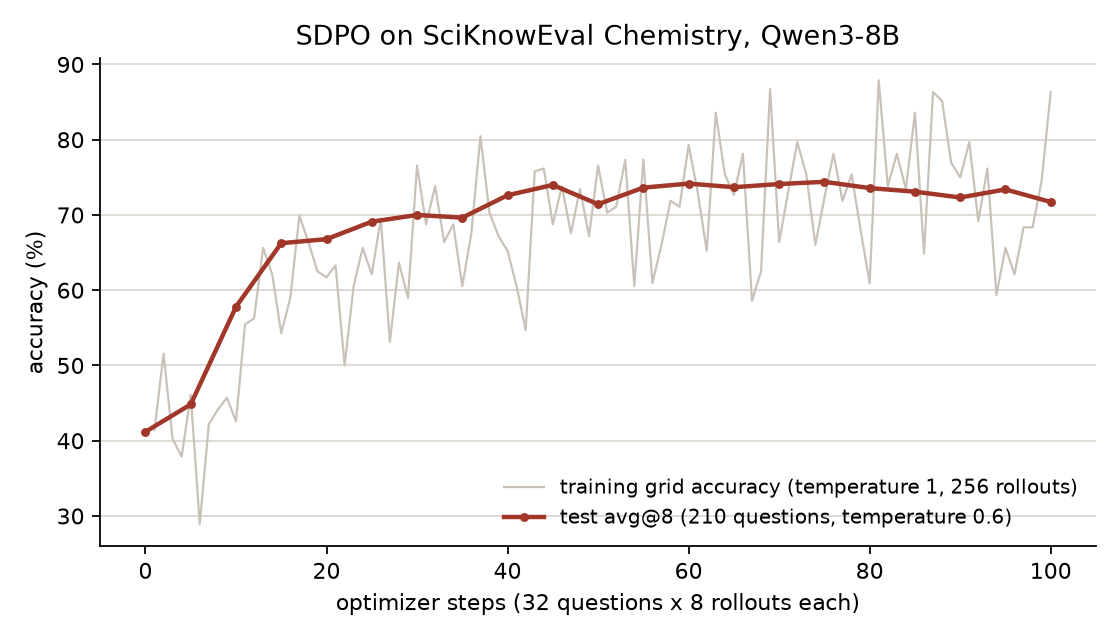
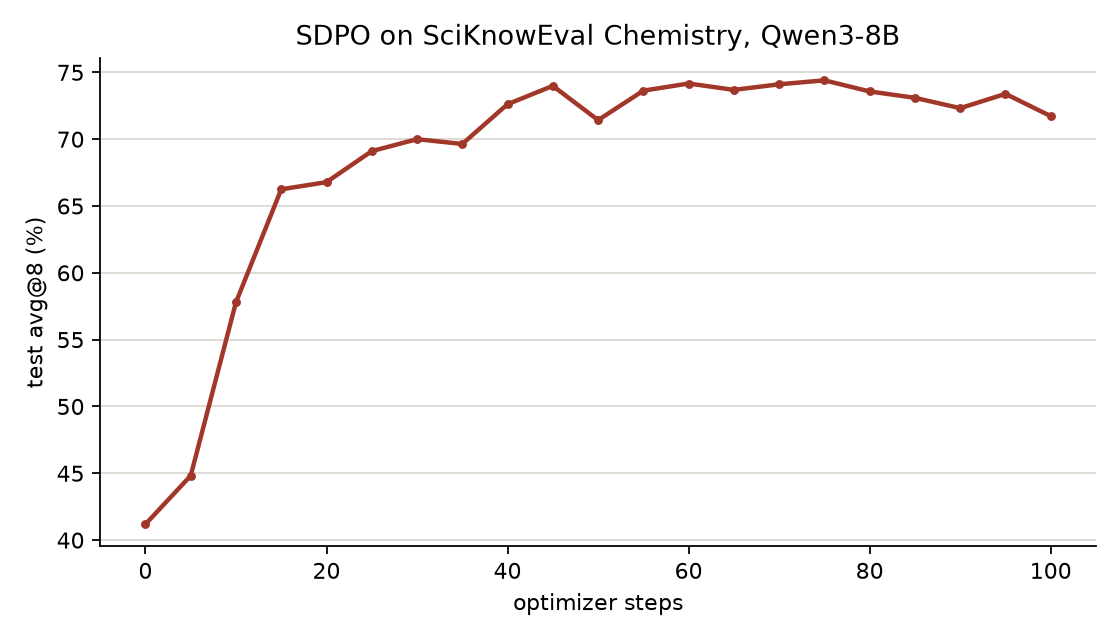
docs(sdpo): the curve shows the test score alone

diff --git a/recipes/sdpo/examples/sciknoweval/README.md b/recipes/sdpo/examples/sciknoweval/README.md
@@ -109,7 +109,7 @@ and the training forward), so `max-tokens-per-gpu` and `mem-fraction-static` in
 
 ## Results
 
-![Test avg@8 against optimizer steps, with the training grid's accuracy behind it](results/2026-09-28-chemistry-qwen3-8b/learning_curve.png)
+![Test avg@8 against optimizer steps](results/2026-09-28-chemistry-qwen3-8b/learning_curve.png)
 
 One run on Qwen3-8B with seed 42 for 100 steps. The actor and the rollout
 engines ran on separate GPUs and the test split was scored avg@8 every five
